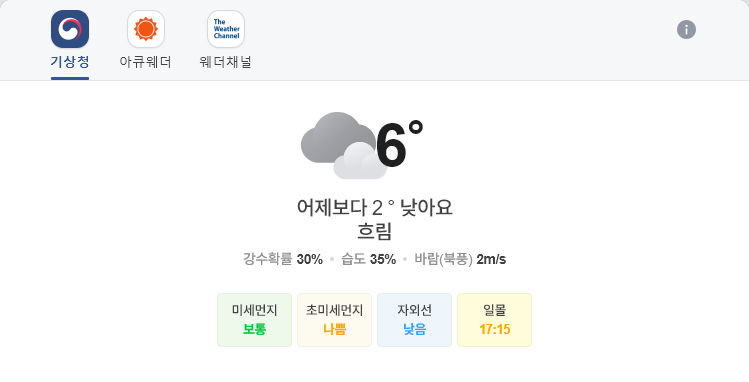
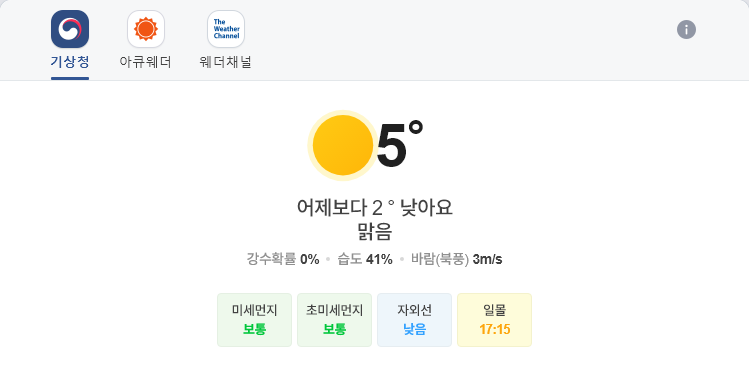
update result

diff --git a/README.md b/README.md
@@ -1,13 +1,13 @@
-##  2020-12-07 12:07:24   월요일 
-##### 날씨   -   어제보다 2 ° 낮아요흐림
+##  2020-12-07 16:02:57   월요일 
+##### 날씨   -   어제보다 1 ° 낮아요맑음
 <center><img src="../img/naver_weather_week.png"></center>
 ----
 ----
 ##### 지수
 <table border="1" bordercolor="blue" align = "center" >
 <tr align = "right" > <td>Item</td><td>Point</td><td>Diff</td><td>Rate</td><td>Buy</td><td>Sell</td><td>...</td>  </tr>
-<tr align = "right" > <td>KOSPI</td><td>2,726.41</td><td>-5.04</td><td><font size="3" color="blue" >-0.18%</font> </td><td><font size="3" color="black">2,000</font></td><td><font size="3" color="black">3,000</font></td><td>0</td>  </tr>
-<tr align = "right" > <td>KOSDAQ</td><td>915.86</td><td>2.1</td><td><font size="3" color="red" >0.23%</font> </td><td><font size="3" color="black">0</font></td><td><font size="3" color="black">0</font></td><td>0</td>  </tr>
+<tr align = "right" > <td>KOSPI</td><td>2,745.44</td><td>13.99</td><td><font size="3" color="red" >0.51%</font> </td><td><font size="3" color="black">2,000</font></td><td><font size="3" color="black">3,000</font></td><td>0</td>  </tr>
+<tr align = "right" > <td>KOSDAQ</td><td>926.88</td><td>13.12</td><td><font size="3" color="red" >1.44%</font> </td><td><font size="3" color="black">0</font></td><td><font size="3" color="black">0</font></td><td>0</td>  </tr>
 </table>
 ----
 ##### 세계
@@ -16,14 +16,14 @@
 <tr align = "right" > <td>DOW</td><td>30,218.26</td><td>248.74</td><td><font size="3" color="red" >0.83%</font></td><td><font size="3" color="black">0</font></td><td><font size="3" color="black">0</font></td><td>0</td>  </tr>
 <tr align = "right" > <td>NASDAQ</td><td>12,464.23</td><td>87.05</td><td><font size="3" color="red" >0.7%</font></td><td><font size="3" color="black">0</font></td><td><font size="3" color="black">0</font></td><td>0</td>  </tr>
 <tr align = "right" > <td>S&P</td><td>3,699.12</td><td>32.4</td><td><font size="3" color="red" >0.88%</font></td><td><font size="3" color="black">0</font></td><td><font size="3" color="black">0</font></td><td>0</td>  </tr>
-<tr align = "right" > <td>SHANHAI</td><td>3,431.52</td><td>-13.06</td><td><font size="3" color="blue" >-0.38%</font></td><td><font size="3" color="black">0</font></td><td><font size="3" color="black">0</font></td><td>0</td>  </tr>
-<tr align = "right" > <td>INDIA</td><td>45,079.55</td><td>446.9</td><td><font size="3" color="red" >1.0%</font></td><td><font size="3" color="black">0</font></td><td><font size="3" color="black">0</font></td><td>0</td>  </tr>
+<tr align = "right" > <td>SHANHAI</td><td>3,417.3</td><td>-27.29</td><td><font size="3" color="blue" >-0.79%</font></td><td><font size="3" color="black">0</font></td><td><font size="3" color="black">0</font></td><td>0</td>  </tr>
+<tr align = "right" > <td>INDIA</td><td>45,317.53</td><td>237.98</td><td><font size="3" color="red" >0.53%</font></td><td><font size="3" color="black">0</font></td><td><font size="3" color="black">0</font></td><td>0</td>  </tr>
 </table>
 ----
 ##### 시장
 <table border="1" bordercolor="blue" align = "center" >
 <tr align = "right" > <td>Item</td><td>Price</td><td>Diff</td><td>Rate</td><td>Buy</td><td>Sell</td><td>...</td>  </tr>
-<tr align = "right" > <td>USD</td><td>1,082.0</td><td>-3.6</td><td><font size="3" color="blue">-0.33%</font></td><td><font size="3" color="orangered">1,110</font></td><td><font size="3" color="black">0</font></td><td>0</td>  </tr>
+<tr align = "right" > <td>USD</td><td>1,083.0</td><td>-3.0</td><td><font size="3" color="blue">-0.28%</font></td><td><font size="3" color="orangered">1,110</font></td><td><font size="3" color="black">0</font></td><td>0</td>  </tr>
 <tr align = "right" > <td>WTI</td><td>46.26</td><td>0.62</td><td><font size="3" color="red">1.35%</font></td><td><font size="3" color="black">29.0</font></td><td><font size="3" color="black">0</font></td><td>0</td>  </tr>
 <tr align = "right" > <td>GOLD</td><td>1,835.0</td><td>-0.9</td><td><font size="3" color="blue">-0.04%</font></td><td><font size="3" color="black">0</font></td><td><font size="3" color="black">0</font></td><td>0</td>  </tr>
 </table>
@@ -31,23 +31,23 @@
 ##### 주가
 <table border="1" bordercolor="blue" align = "center" >
 <tr align = "right" > <td>Item</td><td>Price</td><td>Diff</td><td>Rate</td><td>Purchased</td><td>Sell</td><td>Buy</td>  </tr>
-<tr align = "right" > <td>한국 전력</td><td>21,700</td><td>-400</td><td><font size="3" color="blue">-1.81%</font></td><td>25,720</td><td><font size="3" color="black">30,000</font></td><td><font size="3" color="black">14,000</font></td>  </tr>
-<tr align = "right" > <td>삼성엔지니어.</td><td>13,650</td><td>-250</td><td><font size="3" color="blue">-1.8%</font></td><td>18,935</td><td><font size="3" color="black">20,000</font></td><td><font size="3" color="black">8,000</font></td>  </tr>
+<tr align = "right" > <td>한국 전력</td><td>21,900</td><td>-200</td><td><font size="3" color="blue">-0.9%</font></td><td>25,720</td><td><font size="3" color="black">30,000</font></td><td><font size="3" color="black">14,000</font></td>  </tr>
+<tr align = "right" > <td>삼성엔지니어.</td><td>13,600</td><td>-300</td><td><font size="3" color="blue">-2.16%</font></td><td>18,935</td><td><font size="3" color="black">20,000</font></td><td><font size="3" color="black">8,000</font></td>  </tr>
 <tr align = "right" > <td>CJ CGV</td><td>22,900</td><td>-500</td><td><font size="3" color="blue">-2.14%</font></td><td>34,895</td><td><font size="3" color="black">36,000</font></td><td><font size="3" color="black">0</font></td>  </tr>
-<tr align = "right" > <td>아모레퍼시픽</td><td>191,500</td><td>-2,500</td><td><font size="3" color="blue">-1.29%</font></td><td>235,350</td><td><font size="3" color="black">240,000</font></td><td><font size="3" color="black">130,000</font></td>  </tr>
-<tr align = "right" > <td>한화</td><td>25,750</td><td>-500</td><td><font size="3" color="blue">-1.9%</font></td><td>25,550</td><td><font size="3" color="black">30,000</font></td><td><font size="3" color="black">20,000</font></td>  </tr>
-<tr align = "right" > <td>NAVER</td><td>289,000</td><td>-5,000</td><td><font size="3" color="blue">-1.7%</font></td><td>147,200</td><td><font size="3" color="black">400,000</font></td><td><font size="3" color="black">150,000</font></td>  </tr>
-<tr align = "right" > <td>LG 화학우</td><td>374,000</td><td>-13,000</td><td><font size="3" color="blue">-3.36%</font></td><td>202,490</td><td><font size="3" color="black">500,000</font></td><td><font size="3" color="black">200,000</font></td>  </tr>
-<tr align = "right" > <td>스튜디오드래.</td><td>82,000</td><td>-600</td><td><font size="3" color="blue">-0.73%</font></td><td>81,243</td><td><font size="3" color="black">100,000</font></td><td><font size="3" color="black">78,000</font></td>  </tr>
+<tr align = "right" > <td>아모레퍼시픽</td><td>194,000</td><td>0</td><td><font size="3" color="black">0.0%</font></td><td>235,350</td><td><font size="3" color="black">240,000</font></td><td><font size="3" color="black">130,000</font></td>  </tr>
+<tr align = "right" > <td>한화</td><td>25,900</td><td>-350</td><td><font size="3" color="blue">-1.33%</font></td><td>25,550</td><td><font size="3" color="black">30,000</font></td><td><font size="3" color="black">20,000</font></td>  </tr>
+<tr align = "right" > <td>NAVER</td><td>289,500</td><td>-4,500</td><td><font size="3" color="blue">-1.53%</font></td><td>147,200</td><td><font size="3" color="black">400,000</font></td><td><font size="3" color="black">150,000</font></td>  </tr>
+<tr align = "right" > <td>LG 화학우</td><td>376,000</td><td>-11,000</td><td><font size="3" color="blue">-2.84%</font></td><td>202,490</td><td><font size="3" color="black">500,000</font></td><td><font size="3" color="black">200,000</font></td>  </tr>
+<tr align = "right" > <td>스튜디오드래.</td><td>82,500</td><td>-100</td><td><font size="3" color="blue">-0.12%</font></td><td>81,243</td><td><font size="3" color="black">100,000</font></td><td><font size="3" color="black">78,000</font></td>  </tr>
 <tr align = "right" > <td>글로벌럭셔리</td><td>14,375</td><td>45</td><td><font size="3" color="red">0.31%</font></td><td>0</td><td><font size="3" color="black">15,000</font></td><td><font size="3" color="black">10,000</font></td>  </tr>
-<tr align = "right" > <td>QV미국IT</td><td>24,835</td><td>-315</td><td><font size="3" color="blue">-1.25%</font></td><td>0</td><td><font size="3" color="black">30,000</font></td><td><font size="3" color="black">20,000</font></td>  </tr>
-<tr align = "right" > <td>호텔 신라</td><td>80,900</td><td>-800</td><td><font size="3" color="blue">-0.98%</font></td><td>72,800</td><td><font size="3" color="black">100,000</font></td><td><font size="3" color="black">70,000</font></td>  </tr>
-<tr align = "right" > <td>S-Oil</td><td>69,700</td><td>-500</td><td><font size="3" color="blue">-0.71%</font></td><td>62,842</td><td><font size="3" color="black">100,000</font></td><td><font size="3" color="black">50,000</font></td>  </tr>
-<tr align = "right" > <td>LG전자</td><td>89,100</td><td>-1,400</td><td><font size="3" color="blue">-1.55%</font></td><td>82,022</td><td><font size="3" color="black">100,000</font></td><td><font size="3" color="black">60,000</font></td>  </tr>
-<tr align = "right" > <td>지역난방공사</td><td>39,300</td><td>-700</td><td><font size="3" color="blue">-1.75%</font></td><td>43,590</td><td><font size="3" color="black">60,000</font></td><td><font size="3" color="black">30,000</font></td>  </tr>
-<tr align = "right" > <td>KOEDX은행</td><td>6,215</td><td>-130</td><td><font size="3" color="blue">-2.05%</font></td><td>5,178</td><td><font size="3" color="black">6,000</font></td><td><font size="3" color="black">4,500</font></td>  </tr>
-<tr align = "right" > <td>삼성 전자우</td><td>66,100</td><td>600</td><td><font size="3" color="red">0.92%</font></td><td>48,250</td><td><font size="3" color="black">56,000</font></td><td><font size="3" color="black">45,000</font></td>  </tr>
-<tr align = "right" > <td>한화에어로스.</td><td>26,250</td><td>-650</td><td><font size="3" color="blue">-2.42%</font></td><td>25,700</td><td><font size="3" color="black">30,000</font></td><td><font size="3" color="black">24,000</font></td>  </tr>
-<tr align = "right" > <td>한국금융지주</td><td>78,800</td><td>-1,900</td><td><font size="3" color="blue">-2.35%</font></td><td>0</td><td><font size="3" color="black">82,000</font></td><td><font size="3" color="black">60,000</font></td>  </tr>
+<tr align = "right" > <td>QV미국IT</td><td>24,950</td><td>-200</td><td><font size="3" color="blue">-0.8%</font></td><td>0</td><td><font size="3" color="black">30,000</font></td><td><font size="3" color="black">20,000</font></td>  </tr>
+<tr align = "right" > <td>호텔 신라</td><td>81,400</td><td>-300</td><td><font size="3" color="blue">-0.37%</font></td><td>72,800</td><td><font size="3" color="black">100,000</font></td><td><font size="3" color="black">70,000</font></td>  </tr>
+<tr align = "right" > <td>S-Oil</td><td>70,700</td><td>500</td><td><font size="3" color="red">0.71%</font></td><td>62,842</td><td><font size="3" color="black">100,000</font></td><td><font size="3" color="black">50,000</font></td>  </tr>
+<tr align = "right" > <td>LG전자</td><td>89,200</td><td>-1,300</td><td><font size="3" color="blue">-1.44%</font></td><td>82,022</td><td><font size="3" color="black">100,000</font></td><td><font size="3" color="black">60,000</font></td>  </tr>
+<tr align = "right" > <td>지역난방공사</td><td>39,550</td><td>-450</td><td><font size="3" color="blue">-1.13%</font></td><td>43,590</td><td><font size="3" color="black">60,000</font></td><td><font size="3" color="black">30,000</font></td>  </tr>
+<tr align = "right" > <td>KOEDX은행</td><td>6,275</td><td>-70</td><td><font size="3" color="blue">-1.1%</font></td><td>5,178</td><td><font size="3" color="black">6,000</font></td><td><font size="3" color="black">4,500</font></td>  </tr>
+<tr align = "right" > <td>삼성 전자우</td><td>66,700</td><td>1,200</td><td><font size="3" color="red">1.83%</font></td><td>48,250</td><td><font size="3" color="black">56,000</font></td><td><font size="3" color="black">45,000</font></td>  </tr>
+<tr align = "right" > <td>한화에어로스.</td><td>26,200</td><td>-700</td><td><font size="3" color="blue">-2.6%</font></td><td>25,700</td><td><font size="3" color="black">30,000</font></td><td><font size="3" color="black">24,000</font></td>  </tr>
+<tr align = "right" > <td>한국금융지주</td><td>79,900</td><td>-800</td><td><font size="3" color="blue">-0.99%</font></td><td>0</td><td><font size="3" color="black">82,000</font></td><td><font size="3" color="black">60,000</font></td>  </tr>
 </table>
 ----
